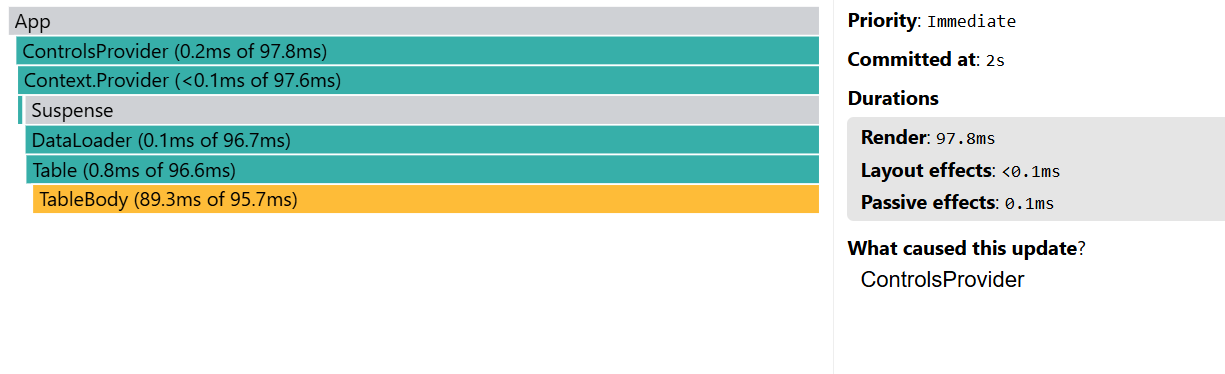
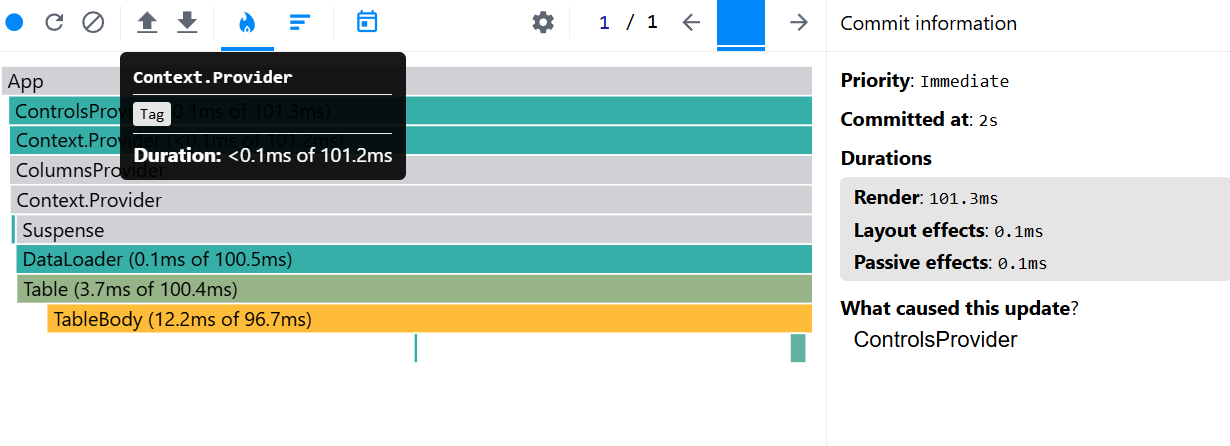
feat: correct report data for new app structure

diff --git a/rs-react-app/README.md b/rs-react-app/README.md
@@ -2,40 +2,40 @@
 
 #### Selecting year
 
-|              |                                  Before optimization                                   |                                After optimization |
-| :----------- | :------------------------------------------------------------------------------------: | ------------------------------------------------: |
-| Commit       |                                         86.3ms                                         |                                                   |
-| Render       | _DataLoader_: 0.2ms of 84.7ms; _Table_: 0.6ms of 84.5ms; _TableBody_: 81.6ms of 83.9ms |                                                   |
-| Interactions |                   Press 'Apply button' with year input value = 2000                    | Press 'Apply button' with year input value = 2000 |
-| Flame Graph  |                                 ![alt text](image.png)                                 |                                                   |
-| Ranked Chart |                                ![alt text](image-1.png)                                |                                                   |
+|              |                                   Before optimization                                    |                                After optimization |
+| :----------- | :--------------------------------------------------------------------------------------: | ------------------------------------------------: |
+| Commit       |                                         101.3ms                                          |                                                   |
+| Render       | _DataLoader_: 0.1ms of 100.5ms; _Table_: 3.7ms of 100.4ms; _TableBody_: 12.2ms of 96.7ms |                                                   |
+| Interactions |                    Press 'Apply button' with year input value = 2000                     | Press 'Apply button' with year input value = 2000 |
+| Flame Graph  |                                 ![alt text](image-6.png)                                 |                                                   |
+| Ranked Chart |                                 ![alt text](image-7.png)                                 |                                                   |
 
 #### Searching country
 
-|              |                                  Before optimization                                   |                                     After optimization |
-| :----------- | :------------------------------------------------------------------------------------: | -----------------------------------------------------: |
-| Commit       |                                         65.2ms                                         |                                                        |
-| Render       | _DataLoader_: 0.1ms of 64.4ms; _Table_: 0.5ms of 64.4ms; _TableBody_: 61.2ms of 63.9ms |                                                  $3.00 |
-| Interactions |                 Press 'Apply button' with year input value = 'Bahrain'                 | Press 'Apply button' with year input value = 'Bahrain' |
-| Flame Graph  |                                ![alt text](image-2.png)                                |                                                        |
-| Ranked Chart |                                ![alt text](image-3.png)                                |                                                        |
+|              |                                Before optimization                                 |                                     After optimization |
+| :----------- | :--------------------------------------------------------------------------------: | -----------------------------------------------------: |
+| Commit       |                                       2.6ms                                        |                                                        |
+| Render       | _DataLoader_: 0.2ms of 1.6ms; _Table_: 0.7ms of 1.4ms; _TableBody_: 0.2ms of 0.6ms |                                                  $3.00 |
+| Interactions |               Press 'Apply button' with year input value = 'Bahrain'               | Press 'Apply button' with year input value = 'Bahrain' |
+| Flame Graph  |                              ![alt text](image-4.png)                              |                                                        |
+| Ranked Chart |                              ![alt text](image-5.png)                              |                                                        |
 
 #### Sorting population
 
-|              |                   Before optimization                   |                                     After optimization |
-| :----------- | :-----------------------------------------------------: | -----------------------------------------------------: |
-| Commit       |                         77.2ms                          |                                                        |
-| Render       | _Table_: 0.8ms of 77.2ms; _TableBody_: 73.4ms of 76.4ms |                                                        |
-| Interactions | Press "Population" head in table with the initial data  | Press "Population" head in table with the initial data |
-| Flame Graph  |                ![alt text](image-4.png)                 |                                                        |
-| Ranked Chart |                ![alt text](image-5.png)                 |                                                        |
+|              |                  Before optimization                   |                                     After optimization |
+| :----------- | :----------------------------------------------------: | -----------------------------------------------------: |
+| Commit       |                          96ms                          |                                                        |
+| Render       | _Table_: 1.4ms of 96ms; _TableBody_: 11.1ms of 94.3ms  |                                                        |
+| Interactions | Press "Population" head in table with the initial data | Press "Population" head in table with the initial data |
+| Flame Graph  |                ![alt text](image-2.png)                |                                                        |
+| Ranked Chart |                ![alt text](image-3.png)                |                                                        |
 
 #### Adding column
 
-|              |                                  Before optimization                                   |                                                 After optimization |
-| :----------- | :------------------------------------------------------------------------------------: | -----------------------------------------------------------------: |
-| Commit       |                                          97.8                                          |                                                                    |
-| Render       | _DataLoader_: 0.1ms of 96.7ms; _Table_: 0.8ms of 96.6ms; _TableBody_: 89.3ms of 95.7ms |                                                                    |
-| Interactions |           Press "Apply" button on columns modal with 'Methane' column chosen           | Press "Apply" button on columns modal with 'Methane' column chosen |
-| Flame Graph  |                                ![alt text](image-6.png)                                |                                                              $1.75 |
-| Ranked Chart |                                ![alt text](image-7.png)                                |                                                              $1.75 |
+|              |                                    Before optimization                                    |                                                 After optimization |
+| :----------- | :---------------------------------------------------------------------------------------: | -----------------------------------------------------------------: |
+| Commit       |                                           118.3                                           |                                                                    |
+| Render       | _DataLoader_: 0.2ms of 115.3ms; _Table_: 0.7ms of 115.1ms; _TableBody_: 13.6ms of 114.3ms |                                                                    |
+| Interactions |            Press "Apply" button on columns modal with 'Methane' column chosen             | Press "Apply" button on columns modal with 'Methane' column chosen |
+| Flame Graph  |                                 ![alt text](image-1.png)                                  |                                                              $1.75 |
+| Ranked Chart |                                  ![alt text](image.png)                                   |                                                              $1.75 |
